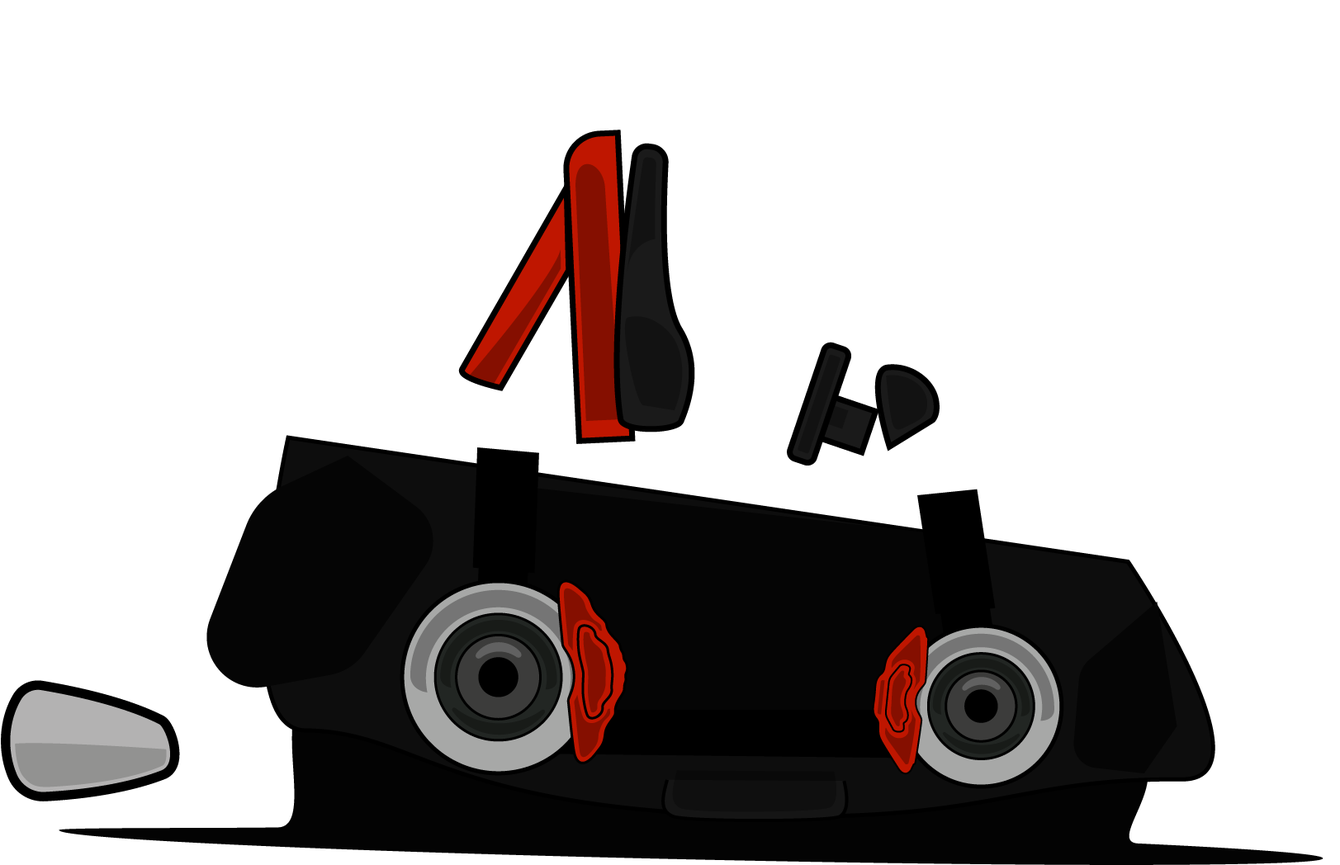
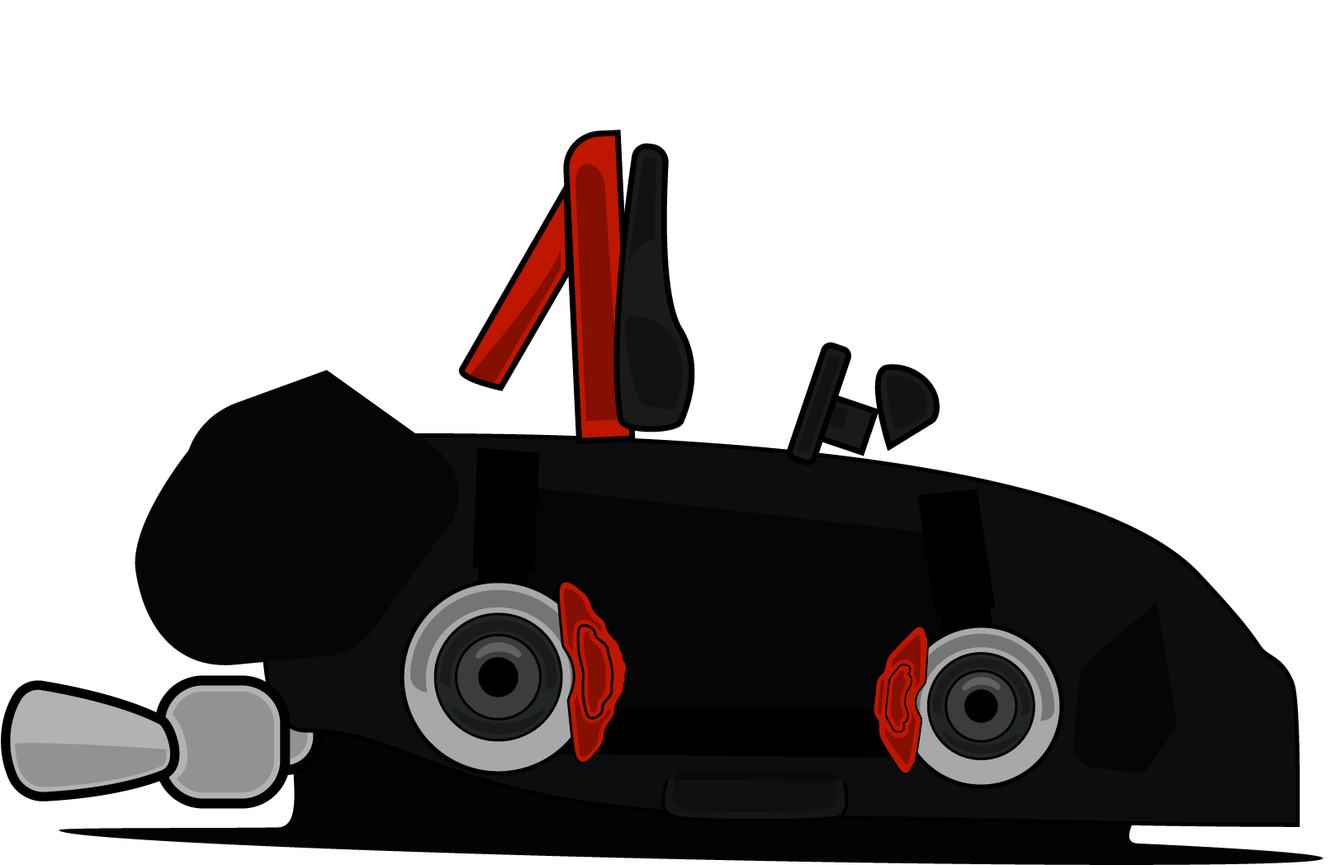
Cursors for different body parts done

Changed region(s): [[0.0924, 0.4275, 0.9858, 0.9771]]

diff --git a/src/app/page.tsx b/src/app/page.tsx
@@ -17,8 +17,8 @@ export default function Home() {
     if (event.target instanceof SVGPathElement) {
 
     const svgElement = (event.target as SVGPathElement).closest('svg');
-    const className = svgElement?.classList.contains('car-part-svg') ? 'car-part-svg' : '';
-    console.log(svgElement);
+    const className = svgElement ? Array.from(svgElement.classList).filter(cls => cls.startsWith('car-part')).join(' ') : '';    
+    console.log(className);
     handleBulletHoles(event);
     }
   };
@@ -39,19 +39,23 @@ export default function Home() {
     <main>
       <div className="body997" onClick={handleClick}>
         {/* Alerón*/}
-        <svg className="car-part-swap" style={{zIndex: '1'}} id="a" xmlns="http://www.w3.org/2000/svg" viewBox="0 0 1622.14 1047.4">
-          <g id="b"><path d="M196.38,589.69l13.72-24.39c6.27-11.15,3.7-33.55-7.45-64.79-9.36-26.26-22.24-51.9-28.43-64.22-.76-1.52-1.42-2.82-1.95-3.9-17.84-36.02-21.54-58.27-10.99-66.13,11.72-8.73,34.47,5.49,50.39,20.32,15.86,14.78,27.29,22.54,34.58,26.59-9.16-18.32-11.3-38.09-5.94-56.71,6.63-23.04,24.47-42.09,50.23-53.63,3.76-1.68,8.03-1.07,11.14,1.6,3.11,2.67,4.36,6.78,3.27,10.74-2.97,10.76-4.85,26.21,3.05,38.74,6.54,10.38,18.91,17.27,36.76,20.47,7.35,1.32,10.16,5.64,11.22,9.03,2.85,9.11-2.78,23.75-17.72,46.06-11.17,16.68-27.49,37.4-48.51,61.58-35.7,41.07-73.18,78.49-73.55,78.87l-19.82,19.76ZM170.19,371.3c-1.81,0-3.26.39-4.29,1.16-5.19,3.86-4.41,20.73,13.3,56.5.53,1.06,1.18,2.36,1.93,3.86,11.33,22.57,42.69,85.01,39.79,121.37,56.77-57.84,134.43-146.85,127.68-168.45-.43-1.38-1.41-3.05-5.21-3.73-20.08-3.6-34.19-11.66-41.93-23.96-9.4-14.92-7.34-32.66-3.96-44.92.42-1.52-.45-2.47-.85-2.81-.4-.34-1.49-1.07-2.94-.42-23.65,10.6-39.97,27.9-45.96,48.71-5.73,19.92-1.86,41.41,10.9,60.52l4.85,7.26-8.64-1.29c-1.61-.24-16.65-3.2-48.46-32.85-15.52-14.46-28.86-20.94-36.21-20.94Z" fill="#000" stroke="#000" stroke-miterlimit="10" stroke-width="8"/>
+        <svg id="a" className="car-part-swap" style={{zIndex: '2'}} xmlns="http://www.w3.org/2000/svg" viewBox="0 0 1622.14 1047.4">
+          <g id="b">
+            <path d="M196.38,589.69l13.72-24.39c6.27-11.15,3.7-33.55-7.45-64.79-9.36-26.26-22.24-51.9-28.43-64.22-.76-1.52-1.42-2.82-1.95-3.9-17.84-36.02-21.54-58.27-10.99-66.13,11.72-8.73,34.47,5.49,50.39,20.32,15.86,14.78,27.29,22.54,34.58,26.59-9.16-18.32-11.3-38.09-5.94-56.71,6.63-23.04,24.47-42.09,50.23-53.63,3.76-1.68,8.03-1.07,11.14,1.6,3.11,2.67,4.36,6.78,3.27,10.74-2.97,10.76-4.85,26.21,3.05,38.74,6.54,10.38,18.91,17.27,36.76,20.47,7.35,1.32,10.16,5.64,11.22,9.03,2.85,9.11-2.78,23.75-17.72,46.06-11.17,16.68-27.49,37.4-48.51,61.58-35.7,41.07-73.18,78.49-73.55,78.87l-19.82,19.76ZM170.19,371.3c-1.81,0-3.26.39-4.29,1.16-5.19,3.86-4.41,20.73,13.3,56.5.53,1.06,1.18,2.36,1.93,3.86,11.33,22.57,42.69,85.01,39.79,121.37,56.77-57.84,134.43-146.85,127.68-168.45-.43-1.38-1.41-3.05-5.21-3.73-20.08-3.6-34.19-11.66-41.93-23.96-9.4-14.92-7.34-32.66-3.96-44.92.42-1.52-.45-2.47-.85-2.81-.4-.34-1.49-1.07-2.94-.42-23.65,10.6-39.97,27.9-45.96,48.71-5.73,19.92-1.86,41.41,10.9,60.52l4.85,7.26-8.64-1.29c-1.61-.24-16.65-3.2-48.46-32.85-15.52-14.46-28.86-20.94-36.21-20.94Z" fill="#000" stroke="#000" stroke-miterlimit="10" stroke-width="8"/>
             <path d="M326.97,190.87c-1,0-2.09-.06-3.33-.18-13.77-1.31-85.26-8.25-140.45-15.8-12.43-1.7-24.01-6.98-33.47-15.27-21.03-18.42-58.93-54.37-76.44-88.18h0c-4.62-8.91-4.12-19.73,1.29-28.22,5.52-8.67,16.66-21.33,38.34-32.44,11.13-5.7,23.94-7.4,36.07-4.77,13.19,2.86,21.33,7.37,36.11,15.55,22.84,12.66,61.08,33.84,158.54,73.12,11.35,4.58,18.68,15.2,25.15,24.58,7.12,10.32,12.46,20.93,15.88,31.53,3.53,10.95-1.74,22.69-12.25,27.31-12.46,5.48-30.28,12.13-44.37,12.75-.35.02-.7.02-1.07.02ZM137.67,12.53c-7.32,0-14.62,1.74-21.23,5.13-20.14,10.32-30.33,21.86-35.34,29.72-3.94,6.18-4.3,14.04-.95,20.51h0c16.92,32.68,54.04,67.86,74.67,85.92,8.32,7.29,18.5,11.93,29.42,13.42,55.04,7.53,126.39,14.46,140.14,15.77,1.33.13,2.39.17,3.32.13,12.9-.56,29.74-6.89,41.6-12.1,6.87-3.02,10.31-10.69,8-17.86-3.18-9.88-8.19-19.81-14.88-29.51-6.13-8.89-12.48-18.09-21.68-21.8C242.85,62.38,204.35,41.06,181.35,28.32c-14.6-8.09-21.92-12.14-34-14.76-3.19-.69-6.44-1.03-9.68-1.03Z" fill="#000" stroke="#000" stroke-miterlimit="10" stroke-width="8"/>
           </g>
           <g id="c">
+            <path d="M214.98,567.19c17.28-30.72-28.59-118.07-37.73-136.52-39.09-78.9-.81-73.04,33.3-41.26,31.85,29.68,46.39,31.85,46.39,31.85-26.8-40.11-15.88-91.34,36.7-114.91,5.13-2.3,10.6,2.37,9.1,7.79-5.38,19.52-7.61,55,42.85,64.05,49.98,8.97-130.61,189-130.61,189Z" fill="#3d3638" stroke="#000" stroke-miterlimit="10"/>
             <path d="M213.47,567.19c17.28-30.72-28.59-118.07-37.73-136.52-39.09-78.9-.81-73.04,33.3-41.26,31.85,29.68,46.39,31.85,46.39,31.85-26.8-40.11-15.88-91.34,36.7-114.91,5.13-2.3,10.6,2.37,9.1,7.79-5.38,19.52-7.61,55,42.85,64.05,49.98,8.97-130.61,189-130.61,189Z" fill="#3d3638" stroke-width="0"/>
             <path d="M196.38,589.69l13.72-24.39c6.27-11.15,3.7-33.55-7.45-64.79-9.36-26.26-22.24-51.9-28.43-64.22-.76-1.52-1.42-2.82-1.95-3.9-17.84-36.02-21.54-58.27-10.99-66.13,11.72-8.73,34.47,5.49,50.39,20.32,15.86,14.78,27.29,22.54,34.58,26.59-9.16-18.32-11.3-38.09-5.94-56.71,6.63-23.04,24.47-42.09,50.23-53.63,3.76-1.68,8.03-1.07,11.14,1.6,3.11,2.67,4.36,6.78,3.27,10.74-2.97,10.76-4.85,26.21,3.05,38.74,6.54,10.38,18.91,17.27,36.76,20.47,7.35,1.32,10.16,5.64,11.22,9.03,2.85,9.11-2.78,23.75-17.72,46.06-11.17,16.68-27.49,37.4-48.51,61.58-35.7,41.07-73.18,78.49-73.55,78.87l-19.82,19.76ZM170.19,371.3c-1.81,0-3.26.39-4.29,1.16-5.19,3.86-4.41,20.73,13.3,56.5.53,1.06,1.18,2.36,1.93,3.86,11.33,22.57,42.69,85.01,39.79,121.37,56.77-57.84,134.43-146.85,127.68-168.45-.43-1.38-1.41-3.05-5.21-3.73-20.08-3.6-34.19-11.66-41.93-23.96-9.4-14.92-7.34-32.66-3.96-44.92.42-1.52-.45-2.47-.85-2.81-.4-.34-1.49-1.07-2.94-.42-23.65,10.6-39.97,27.9-45.96,48.71-5.73,19.92-1.86,41.41,10.9,60.52l4.85,7.26-8.64-1.29c-1.61-.24-16.65-3.2-48.46-32.85-15.52-14.46-28.86-20.94-36.21-20.94Z" fill="#000" stroke-width="0"/>
             <path d="M225.51,528.67c13.66-19.85,39.02-59.45,39.02-59.45-30.7-1.05-57.18-18.44-67.52-26.19-1.08-.81-2.5.4-1.88,1.61,25.81,50.54,30.38,84.03,30.38,84.03Z" fill="#000" opacity=".3" stroke-width="0"/>
             <path d="M288.85,319.63s-7.24,24,4.89,43.18c0,0-26.42,40.72-39.45,19.27,0,0-8.69-35.97,34.56-62.45Z" fill="#999" opacity=".4" stroke-width="0"/>
             <path d="M327.76,203.38c-7.2-29.98,25.21-37.27,9.4-39.82-93.04-14.96-142.7-35.15-163.85-45.72-6.04-3.02-13.19,1.14-13.53,7.89-2.58,52.64-6.71,202.43,8.41,244.13,17.07,47.05,55.32,79.63,91.46,126.86,5.99,7.66,96.69-125.34,99.34-136.89,7.84-34.13-6.17-52.11-31.24-156.46ZM220.37,154.76c12.76,1.68,52.93,15.55,75.58,17.52,11.71,1.02,17.3,12.07,11.32,24.68-3.31,6.98-22.86,12.72-34.15,9.84-15.98-4.08-54.02-15.3-82.77-28.15-12.93-5.78,13.46-26.07,30.02-23.89ZM255.78,398.1c-18.64-.94-34.46,1.01-42.53-.55-16.15-3.12-33.92-33.39-36.29-51.57-4.49-34.44-4.27-55.41-4.32-70.58-.17-49.22,28.82-67.43,40.68-49.37,24.4,37.15,50.59,92.73,62.18,115.36,10.36,20.23,8.67,58.15-19.72,56.7ZM302.42,371.55c-22.22-30.49-66.59-105.83-72.66-118.43-23.3-48.41.88-51.31,27.78-43.84,7.63,2.12,28.74,9.47,39.65,13.26,12.12,4.21,22.22,17.23,27.11,36.78,3.66,14.65,11.7,56.44,14.67,70.13,3.62,16.65-12.44,75.2-36.56,42.12Z" fill="#c7c7c7" stroke="#000" stroke-miterlimit="10" stroke-width="17"/>
+            <path d="M327.76,203.38c-7.2-29.98,25.21-37.27,9.4-39.82-93.04-14.96-142.7-35.15-163.85-45.72-6.04-3.02-13.19,1.14-13.53,7.89-2.58,52.64-6.71,202.43,8.41,244.13,17.07,47.05,55.32,79.63,91.46,126.86,5.99,7.66,96.69-125.34,99.34-136.89,7.84-34.13-6.17-52.11-31.24-156.46ZM224.2,171.03c12.76,1.68,39.24,5.09,61.89,7.05,11.71,1.02,13.85,4.49,7.87,17.1-3.31,6.98-7.48,6.37-18.77,3.49-15.98-4.08-29.03-9.1-57.79-21.95-12.93-5.78-9.76-7.87,6.79-5.7ZM255.78,381.53c-18.64-.94-34.46-1.2-42.53-2.76-16.15-3.12-20.66-14.61-23.03-32.79-4.49-34.44-5.38-55.41-5.43-70.58-.17-49.22,15.56-39.81,27.42-21.75,24.4,37.15,41.75,71.74,53.34,94.37,10.36,20.23,18.61,34.96-9.78,33.51ZM307.54,355.62c-22.22-30.49-45.43-72.32-51.5-84.93-23.3-48.41-17.93-51.03,8.97-43.57,7.63,2.12,15.15,4.18,26.06,7.97,12.12,4.21,16.74,10.04,21.63,29.58,3.66,14.65,13.89,52.42,16.87,66.1,3.62,16.65,2.08,57.93-22.03,24.84Z" fill="#000" stroke-width="0"/>
             <path d="M327.76,203.38c-7.2-29.98,25.21-37.27,9.4-39.82-93.04-14.96-142.7-35.15-163.85-45.72-6.04-3.02-13.19,1.14-13.53,7.89-2.58,52.64-6.71,202.43,8.41,244.13,17.07,47.05,55.32,79.63,91.46,126.86,5.99,7.66,96.69-125.34,99.34-136.89,7.84-34.13-6.17-52.11-31.24-156.46ZM224.2,171.03c12.76,1.68,39.24,5.09,61.89,7.05,11.71,1.02,13.85,4.49,7.87,17.1-3.31,6.98-7.48,6.37-18.77,3.49-15.98-4.08-29.03-9.1-57.79-21.95-12.93-5.78-9.76-7.87,6.79-5.7ZM255.78,381.53c-18.64-.94-34.46-1.2-42.53-2.76-16.15-3.12-20.66-14.61-23.03-32.79-4.49-34.44-5.38-55.41-5.43-70.58-.17-49.22,15.56-39.81,27.42-21.75,24.4,37.15,41.75,71.74,53.34,94.37,10.36,20.23,18.61,34.96-9.78,33.51ZM307.54,355.62c-22.22-30.49-45.43-72.32-51.5-84.93-23.3-48.41-17.93-51.03,8.97-43.57,7.63,2.12,15.15,4.18,26.06,7.97,12.12,4.21,16.74,10.04,21.63,29.58,3.66,14.65,13.89,52.42,16.87,66.1,3.62,16.65,2.08,57.93-22.03,24.84Z" fill="#c7c7c7" stroke="#000" stroke-miterlimit="10" stroke-width="7"/>
             <path d="M319.43,191.07c-.27-11.76,7.12-19.84,7.12-19.84-86.38-16.08-119.36-30.6-119.36-30.6,27.15,13.03,62.02,27.82,62.02,27.82,18.38,1.18,38.64,0,37.04,16.41l13.18,6.21Z" fill="#999" opacity=".4" stroke-width="0"/>
             <path d="M323.18,172.55c-59.72-8.73-133.52-35.05-149.1-40.76-1.48-.55-3.05.5-3.11,2.07l-2.01,54.49c107.04,19.91,154.78,45.51,155.35,46.04-19.53-51.85-1.13-61.84-1.13-61.84ZM301.53,198.77c-3.78,7.98-9.34,10.27-15.35,10.27-4.28,0-8.79-1.16-13.05-2.24-16.21-4.14-29.46-9.17-59.13-22.42-5.25-2.35-15.05-6.72-12.6-15.35,2.57-9.09,14.39-7.54,23.9-6.29,9.31,1.22,37.62,4.93,61.52,7.01,6.4.56,13.43,1.96,16.95,8.1,3.7,6.44,1.11,13.86-2.24,20.93Z" fill="#000" opacity=".3" stroke-width="0"/>
+            <path d="M77.76,67.73c17.26,33.34,54.98,69.03,75.55,87.05,8.86,7.76,19.78,12.75,31.45,14.35,55.35,7.57,127.64,14.58,140.29,15.79,1.28.12,2.57.2,3.86.14,13.57-.59,31.05-7.18,42.99-12.43,8.68-3.81,13.03-13.56,10.13-22.58-3.89-12.08-9.91-22.59-15.38-30.52-6.29-9.12-13.14-19.05-23.41-23.19C180.94,30.91,180.95,14.72,149.21,7.85c-11.34-2.45-23.17-.86-33.49,4.43-20.44,10.48-31.21,22.25-36.84,31.08-4.67,7.33-5.11,16.65-1.12,24.37Z" fill="#000" stroke-width="0"/>
             <path d="M76.72,69.66c17.26,33.34,54.98,69.03,75.55,87.05,8.86,7.76,19.78,12.75,31.45,14.35,55.35,7.57,127.64,14.58,140.29,15.79,1.28.12,2.57.2,3.86.14,13.57-.59,31.05-7.18,42.99-12.43,8.68-3.81,13.03-13.56,10.13-22.58-3.89-12.08-9.91-22.59-15.38-30.52-6.29-9.12-13.14-19.05-23.41-23.19C179.91,32.84,179.91,16.65,148.17,9.78c-11.34-2.45-23.17-.86-33.49,4.43-20.44,10.48-31.21,22.25-36.84,31.08-4.67,7.33-5.11,16.65-1.12,24.37Z" fill="#bf1600" stroke-width="0"/>
             <path d="M326.98,190.87c-1,0-2.09-.06-3.33-.18-13.77-1.31-85.26-8.25-140.45-15.8-12.43-1.7-24.01-6.98-33.47-15.27-21.03-18.42-58.93-54.37-76.44-88.18h0c-4.62-8.91-4.12-19.73,1.29-28.22,5.52-8.67,16.66-21.33,38.34-32.44,11.13-5.7,23.94-7.4,36.07-4.77,13.19,2.86,21.33,7.37,36.11,15.55,22.84,12.66,61.08,33.84,158.54,73.12,11.35,4.58,18.68,15.2,25.15,24.58,7.12,10.32,12.46,20.93,15.88,31.53,3.53,10.95-1.74,22.69-12.25,27.31-12.46,5.48-30.28,12.13-44.37,12.75-.35.02-.7.02-1.07.02ZM137.68,12.53c-7.32,0-14.62,1.74-21.23,5.13-20.14,10.32-30.33,21.86-35.34,29.72-3.94,6.18-4.3,14.04-.95,20.51h0c16.92,32.68,54.04,67.86,74.67,85.92,8.32,7.29,18.5,11.93,29.42,13.42,55.04,7.53,126.39,14.46,140.14,15.77,1.33.13,2.39.17,3.32.13,12.9-.56,29.74-6.89,41.6-12.1,6.87-3.02,10.31-10.69,8-17.86-3.18-9.88-8.19-19.81-14.88-29.51-6.13-8.89-12.48-18.09-21.68-21.8C242.85,62.39,204.36,41.06,181.36,28.32c-14.6-8.09-21.92-12.14-34-14.76-3.19-.69-6.44-1.03-9.68-1.03Z" fill="#000" stroke-width="0"/>
             <path d="M369.38,163.55s-9.95,7.27-35.48,11.67c-3.92.68-7.94.8-11.89.36l-136.51-17.28c-9.02-1.14-17.62-4.64-24.75-10.28-48.39-38.26-78.01-90.02-78.01-90.02,90.66,105.14,286.65,105.55,286.65,105.55Z" fill="#000" opacity=".3" stroke-width="0"/>
@@ -101,41 +105,29 @@ export default function Home() {
           </g>
         </svg>
         {/* Cristales */}
-        <svg id="a" className="car-part-swap" style={{zIndex: '50'}} xmlns="http://www.w3.org/2000/svg" viewBox="0 0 1622.14 1047.4">
+        <svg id="a" className="car-part-swap" style={{zIndex: '2'}} xmlns="http://www.w3.org/2000/svg" viewBox="0 0 1622.14 1047.4">
           <g id="b">
+            <path d="M991.84,161.72c-13.81-62.89-23.87-64.67-73.07-61-97.91,7.31-204.21,50.48-318.06,167.36-118.32,121.46-89.12,176.94,47.57,208.7,52.79,12.28,197.37,38.52,395.65,59.68,0,0-12.08-192.5-52.09-374.74ZM605.92,448.69c-86.36-34.01-62.75-93.46-10.14-152.01,33.28-37.04,53.74-59.08,107.49-98.26l22.25,277.2c-51.03-7.55-91.4-15.81-119.6-26.93ZM755.93,169.72c39.8-23.12,112.39-45.05,172.91-49.2,23.61-1.61,32.58-.11,40.18,26.08,3.46,11.94,31.71,141.84,51.8,366.33,0,0-106.01-8.79-237.47-29.59l-27.42-313.62Z" fill="#151515" stroke-width="0"/>
+            <path d="M725.06,476.07c-51.03-7.55-91.4-15.81-119.6-26.93-86.36-34.01-62.75-93.46-10.14-152.01,33.28-37.04,53.74-59.08,107.49-98.26l22.25,277.2Z" fill="#262625" opacity=".6" stroke-width="0"/>
+            <path d="M1020.82,512.93s-106.01-8.79-237.47-29.59l-27.42-313.62c39.8-23.12,112.39-45.05,172.91-49.2,23.61-1.61,32.58-.11,40.18,26.08,3.46,11.94,31.71,141.84,51.8,366.33Z" fill="#262625" opacity=".6" stroke-width="0"/>
+            <path d="M734.61,160.23c8.29,101.78,16.69,212.01,27.98,338.34" fill="#151515" stroke-width="0"/>
+            <path d="M755,499.25c-8.33-93.18-14.96-176.11-21.38-256.32-2.06-25.74-4.07-50.87-6.07-75.49l14.64-7.83c2.18,26.74,4.36,54.06,6.61,82.11,6.41,80.17,13.04,163.06,21.36,256.17l-15.17,1.36Z" fill="#000" stroke-width="0"/>
+            <rect x="906.71" y="114.19" width="57.81" height="7" rx="3.5" ry="3.5" transform="translate(1875.77 190.92) rotate(177.28)" fill="#999" stroke-width="0"/>
+            <rect x="933.05" y="125.9" width="37.47" height="7" rx="3.5" ry="3.5" transform="translate(1908.64 213.56) rotate(177.28)" fill="#999" stroke-width="0"/>
+            <rect x="955.19" y="137.62" width="18.57" height="7" rx="3.5" ry="3.5" transform="translate(1934.56 236.39) rotate(177.28)" fill="#999" stroke-width="0"/>
+            <rect x="778.29" y="486.9" width="59.91" height="7.25" rx="3.63" ry="3.63" transform="translate(71.52 -102.02) rotate(7.56)" fill="#999" stroke-width="0"/>
+            <rect x="709.93" y="474.27" width="19.76" height="7.45" rx="3.72" ry="3.72" transform="translate(69.1 -90.5) rotate(7.56)" fill="#999" stroke-width="0"/>
+            <rect x="777.4" y="470.95" width="29.96" height="7.25" rx="3.63" ry="3.63" transform="translate(69.28 -100.07) rotate(7.56)" fill="#999" stroke-width="0"/>
+            <rect x="722.52" y="461.96" width="11.43" height="7.45" rx="3.72" ry="3.72" transform="translate(67.55 -91.71) rotate(7.56)" fill="#999" stroke-width="0"/>
+            <path d="M1133.83,468.27v.02c-.87,4.22-1.95,7.78-3.34,10.92-.52,1.19-1.08,2.3-1.69,3.35-4.65,8.13-12,13.01-24.05,18.69-13.54,6.38-20.85,4.63-24.6-33.04-7.57-76.22-17.69-148.51-48.16-330.77-5.7-34.07,1.71-29.88,9.19-35.37.64-.49,1.49-.46,2.17-.87,1.55-.94,3.15-1.74,4.78-2.42,2.16,6.75,4.34,13.91,6.55,21.42,22.1,75.38,46.29,186.16,62.85,266.6,7.08,34.44,12.76,63.32,16.3,81.47Z" fill="#262625" opacity=".6" stroke-width="0"/>
+            <path d="M1138.87,492.8c-.15.47-.32.93-.5,1.39-.02.03-.03.06-.03.08-.15.35-.29.7-.46,1.05-.46,1.01-.96,1.98-1.54,2.92-.02.03-.03.05-.05.08-.23.37-.46.73-.7,1.08-.26.38-.52.75-.79,1.13-8.7,11.73-26.34,18.52-39.86,24.51-14.7,6.5-22.36,5.01-26.37-35.81-8.12-82.59-17.17-161.24-51.63-358.44-5.09-29.12,7.65-38.4,19.62-42.8.75-.27,1.48-.52,2.21-.76.52-.17,1.02-.32,1.52-.47.61-.18,1.2-.35,1.8-.52s1.17-.34,1.74-.49c.41,1.17.82,2.38,1.23,3.61.4,1.17.79,2.36,1.17,3.56.37,1.07.72,2.15,1.05,3.24.29.87.56,1.75.85,2.64-1.63.69-6.06,3.41-6.78,3.76-11.53,5.64-12.82,15.34-9.37,34.9,32.15,181.97,40.59,254.55,48.16,330.77,3.75,37.67,11.06,39.42,24.6,33.04,12.05-5.68,19.4-10.56,24.05-18.69.61-1.05,1.17-2.16,1.69-3.35,1.39-3.14,2.47-6.7,3.34-10.92.41,2.1.78,4.05,1.13,5.85.06.27.11.55.17.82.09.49.18.96.27,1.43.4,2.07.75,3.9,1.05,5.48.05.23.08.46.12.67.73,3.88,1.14,6.08,1.19,6.32.26,1.51.62,2.82,1.11,3.93Z" fill="#151515" stroke-width="0"/>
+            <path d="M1012.48,474.64c8.66-38.58,19.78-27.79,22.23-3.58,1.91,18.92,5.64,46.26,7.18,57.32.37,2.62,2.09,6.15-.67,6.09-18.32-.37-42.08-4.82-42.08-4.82-13.97-1.73,4.1-13.86,13.33-55.01Z" fill="#050505" stroke="#000" stroke-miterlimit="10" stroke-width="5"/>
+          </g>
           <g id="c">
-              <path d="M769.34,166.58l-5.98-1.89c5.41-2.83,11.26-5.61,17.48-8.33v13.23l-8.67-6.82-2.84,3.81Z" fill="#262625" opacity=".6" stroke="#000" stroke-miterlimit="10" stroke-width="3"/>
-              <path d="M796.06,169.24l-10.89-14.76c5.75-2.48,8.95-3.67,15.25-6l-4.36,20.77Z" fill="#262625" opacity=".6" stroke="#000" stroke-miterlimit="10" stroke-width="3"/>
-              <polygon points="791.63 306.89 768.35 321.11 759.22 216.84 789.34 194.9 778.66 230.59 818.65 214.63 788.38 251.67 811.35 256.57 818.65 278.7 788.38 289.46 791.63 306.89" fill="#262625" opacity=".6" stroke="#000" stroke-miterlimit="10" stroke-width="3"/>
-              <path d="M826.87,146.59l-16.41-1.69c9.7-3.38,12.34-4.7,22.59-7.34l-6.18,9.03Z" fill="#262625" opacity=".6" stroke="#000" stroke-miterlimit="10" stroke-width="3"/>
-              <path d="M856.4,494.76s-25.21-3.18-73.82-10.88l-7.92-90.57,30.55,16.67,13.45,34.84-4.4,12.79,29.77-11.22,12.38,48.37Z" fill="#262625" opacity=".6" stroke="#000" stroke-miterlimit="10" stroke-width="3"/>
-              <path d="M876.71,159.09l-35.65-23.66c28.79-7.9,59.43-13.63,87.49-15.56,23.69-1.62,32.69-.11,40.31,26.16.61,2.11,2,7.92,3.97,17.27l-11.57,19.36-4.52-32.69-11.03,13.8.72-17.19-40.13,7.64-29.58-7.64v12.5Z" fill="#262625" opacity=".6" stroke="#000" stroke-miterlimit="10" stroke-width="3"/>
-              <path d="M978.11,189.82s8.73,44.7,18.38,112.04l-16.52-12.41,4.65-17.47-27.89-22.51h23.78l-23.78-33.41,21.38-26.25Z" fill="#262625" opacity=".6" stroke="#000" stroke-miterlimit="10" stroke-width="3"/>
-              <path d="M1020.82,513.58s-42.22-3.5-106.45-11.31l3.81-71.23,43.08,29.78v-14.43l18.72,17.7,30.44-53.32c3.59,31.65,7.11,65.95,10.41,102.8Z" fill="#262625" opacity=".6" stroke="#000" stroke-miterlimit="10" stroke-width="3"/>
-              <path d="M632.42,408.71l3.39,50.4h-.03c-11.66-3.09-22.07-6.39-31.22-9.99-33.16-13.05-50.15-29.86-55.55-48.92l26.3-10.94,25.99-.7,7.14,34.03,23.98-13.88Z" fill="#262625" opacity=".6" stroke="#000" stroke-miterlimit="10" stroke-width="3"/>
-              <path d="M671.34,221.55l-2.22,31.57h-11.75l-6.34,36.31-14.15-24.69-4.46,23.96-31.11,17.02.63,17.62-22.94-8.45v-.02c4.75-6.08,9.92-12.18,15.39-18.26,26.13-29.1,44.39-48.96,76.96-75.06Z" fill="#262625" opacity=".6" stroke="#000" stroke-miterlimit="10" stroke-width="3"/>
-              <polygon points="695.73 354.1 706.58 333 695.73 321.11 709.51 288.91 709.54 289.17 714.08 345.8 695.73 354.1" fill="#262625" opacity=".6" stroke="#000" stroke-miterlimit="10" stroke-width="3"/>
-              <path d="M724.55,476.14c-8.8-1.3-17.3-2.63-25.46-3.99l-3.36-25.75,12.48-9.54v-35.22l11.4,13.07v.03l4.94,61.4Z" fill="#262625" opacity=".6" stroke="#000" stroke-miterlimit="10" stroke-width="3"/>
-          </g>
-              <path d="M991.84,161.72c-13.81-62.89-23.87-64.67-73.07-61-97.91,7.31-204.21,50.48-318.06,167.36-118.32,121.46-89.12,176.94,47.57,208.7,52.79,12.28,197.37,38.52,395.65,59.68,0,0-12.08-192.5-52.09-374.74ZM605.92,448.69c-86.36-34.01-62.75-93.46-10.14-152.01,33.28-37.04,53.74-59.08,107.49-98.26l22.25,277.2c-51.03-7.55-91.4-15.81-119.6-26.93ZM755.93,169.72c39.8-23.12,112.39-45.05,172.91-49.2,23.61-1.61,32.58-.11,40.18,26.08,3.46,11.94,31.71,141.84,51.8,366.33,0,0-106.01-8.79-237.47-29.59l-27.42-313.62Z" fill="#151515" stroke-width="0"/>
-              <path d="M734.61,160.23c8.29,101.78,16.69,212.01,27.98,338.34" fill="#151515" stroke-width="0"/>
-              <path d="M755,499.25c-8.33-93.18-14.96-176.11-21.38-256.32-2.06-25.74-4.07-50.87-6.07-75.49l14.64-7.83c2.18,26.74,4.36,54.06,6.61,82.11,6.41,80.17,13.04,163.06,21.36,256.17l-15.17,1.36Z" fill="#000" stroke-width="0"/>
-              <rect x="906.71" y="114.19" width="57.81" height="7" rx="3.5" ry="3.5" transform="translate(1875.77 190.92) rotate(177.28)" fill="#999" stroke-width="0"/>
-              <rect x="933.05" y="125.9" width="37.47" height="7" rx="3.5" ry="3.5" transform="translate(1908.64 213.56) rotate(177.28)" fill="#999" stroke-width="0"/>
-              <rect x="955.19" y="137.62" width="18.57" height="7" rx="3.5" ry="3.5" transform="translate(1934.56 236.39) rotate(177.28)" fill="#999" stroke-width="0"/>
-              <rect x="778.29" y="486.9" width="59.91" height="7.25" rx="3.63" ry="3.63" transform="translate(71.52 -102.02) rotate(7.56)" fill="#999" stroke-width="0"/>
-              <rect x="709.93" y="474.27" width="19.76" height="7.45" rx="3.72" ry="3.72" transform="translate(69.1 -90.5) rotate(7.56)" fill="#999" stroke-width="0"/>
-              <rect x="777.4" y="470.95" width="29.96" height="7.25" rx="3.63" ry="3.63" transform="translate(69.28 -100.07) rotate(7.56)" fill="#999" stroke-width="0"/>
-              <rect x="722.52" y="461.96" width="11.43" height="7.45" rx="3.72" ry="3.72" transform="translate(67.55 -91.71) rotate(7.56)" fill="#999" stroke-width="0"/>
-              <path d="M1133.83,468.27v.02c-.87,4.22-1.95,7.78-3.34,10.92-.52,1.19-1.08,2.3-1.69,3.35-4.65,8.13-12,13.01-24.05,18.69-13.54,6.38-20.85,4.63-24.6-33.04-7.57-76.22-17.69-148.51-48.16-330.77-5.7-34.07,1.71-29.88,9.19-35.37.64-.49,1.49-.46,2.17-.87,1.55-.94,3.15-1.74,4.78-2.42,2.16,6.75,4.34,13.91,6.55,21.42,22.1,75.38,46.29,186.16,62.85,266.6,7.08,34.44,12.76,63.32,16.3,81.47Z" fill="#262625" opacity=".6" stroke-width="0"/>
-              <path d="M1138.87,492.8c-.15.47-.32.93-.5,1.39-.02.03-.03.06-.03.08-.15.35-.29.7-.46,1.05-.46,1.01-.96,1.98-1.54,2.92-.02.03-.03.05-.05.08-.23.37-.46.73-.7,1.08-.26.38-.52.75-.79,1.13-8.7,11.73-26.34,18.52-39.86,24.51-14.7,6.5-22.36,5.01-26.37-35.81-8.12-82.59-17.17-161.24-51.63-358.44-5.09-29.12,7.65-38.4,19.62-42.8.75-.27,1.48-.52,2.21-.76.52-.17,1.02-.32,1.52-.47.61-.18,1.2-.35,1.8-.52s1.17-.34,1.74-.49c.41,1.17.82,2.38,1.23,3.61.4,1.17.79,2.36,1.17,3.56.37,1.07.72,2.15,1.05,3.24.29.87.56,1.75.85,2.64-1.63.69-6.06,3.41-6.78,3.76-11.53,5.64-12.82,15.34-9.37,34.9,32.15,181.97,40.59,254.55,48.16,330.77,3.75,37.67,11.06,39.42,24.6,33.04,12.05-5.68,19.4-10.56,24.05-18.69.61-1.05,1.17-2.16,1.69-3.35,1.39-3.14,2.47-6.7,3.34-10.92.41,2.1.78,4.05,1.13,5.85.06.27.11.55.17.82.09.49.18.96.27,1.43.4,2.07.75,3.9,1.05,5.48.05.23.08.46.12.67.73,3.88,1.14,6.08,1.19,6.32.26,1.51.62,2.82,1.11,3.93Z" fill="#151515" stroke-width="0"/>
-              <path d="M1012.48,474.64c8.66-38.58,19.78-27.79,22.23-3.58,1.91,18.92,5.64,46.26,7.18,57.32.37,2.62,2.09,6.15-.67,6.09-18.32-.37-42.08-4.82-42.08-4.82-13.97-1.73,4.1-13.86,13.33-55.01Z" fill="#050505" stroke="#000" stroke-miterlimit="10" stroke-width="5"/>
-          </g>
-          <g id="d">
-              <path d="M1014.2,475.55c15.56,9.05,13.75,36.92,5.43,42.71-8.32,5.79-38.37,2.53-52.48,0-14.12-2.53-60.08-2-45.97-76.73,13.42-71.07,53.67-73.15,67.32-40.17,19.18,46.33,16.46,68.82,25.7,74.2Z" fill="#bf1600" stroke="#000" stroke-miterlimit="10" stroke-width="7"/>
-              <path d="M1012.51,503.55c-.87,4.01-4.63,6.88-8.99,6.88h-.09c-1.33-.02-2.83-.06-4.46-.11-4.2-.13-9.23-.3-14.1.11-2.04.17-3.87-1.22-4.18-3.24l-.03-.21c-.05-.35.19-.68.54-.73,3.71-.53,7.55-.56,11.18-.65,8.96-.22,7.94-20.69,3.48-25.58-4.39-4.8-8.75-13.63-9.92-15.92-.16-.31-.03-.7.29-.85h0c1.94-.96,4.29-.21,5.31,1.7,1.68,3.13,4.3,7.71,6.66,10.71.43.55.88,1.1,1.34,1.63,2.53,2.91,5.67,5.35,9.08,7.59,7.17,4.7,3.9,18.67,3.9,18.67Z" fill="#000" stroke-width="0"/>
-              <path d="M977.9,508.53s-1.41-2.67,1.78-4.16c2.06-.96,7.38-.78,11.72-1.22s5.88-18.64.63-20.99c-12.03-5.39-60.53-61.53-64.33-22.44,0,0-3.8,39.54,23.78,45.38,19.34,4.1,26.42,3.44,26.42,3.44Z" fill="#000" opacity=".3" stroke-width="0"/>
-              <path d="M996.95,455.46s-6.55-31.13-14.46-49.55c-15.06-35.08-39.12-5.58-40.95.33,0,0,32.85-21.35,55.41,49.22Z" fill="#f2f2f2" opacity=".4" stroke-width="0"/>
+            <path d="M1014.2,475.55c15.56,9.05,13.75,36.92,5.43,42.71-8.32,5.79-38.37,2.53-52.48,0-14.12-2.53-60.08-2-45.97-76.73,13.42-71.07,53.67-73.15,67.32-40.17,19.18,46.33,16.46,68.82,25.7,74.2Z" fill="#bf1600" stroke="#000" stroke-miterlimit="10" stroke-width="7"/>
+            <path d="M1012.51,503.55c-.87,4.01-4.63,6.88-8.99,6.88h-.09c-1.33-.02-2.83-.06-4.46-.11-4.2-.13-9.23-.3-14.1.11-2.04.17-3.87-1.22-4.18-3.24l-.03-.21c-.05-.35.19-.68.54-.73,3.71-.53,7.55-.56,11.18-.65,8.96-.22,7.94-20.69,3.48-25.58-4.39-4.8-8.75-13.63-9.92-15.92-.16-.31-.03-.7.29-.85h0c1.94-.96,4.29-.21,5.31,1.7,1.68,3.13,4.3,7.71,6.66,10.71.43.55.88,1.1,1.34,1.63,2.53,2.91,5.67,5.35,9.08,7.59,7.17,4.7,3.9,18.67,3.9,18.67Z" fill="#000" stroke-width="0"/>
+            <path d="M977.9,508.53s-1.41-2.67,1.78-4.16c2.06-.96,7.38-.78,11.72-1.22s5.88-18.64.63-20.99c-12.03-5.39-60.53-61.53-64.33-22.44,0,0-3.8,39.54,23.78,45.38,19.34,4.1,26.42,3.44,26.42,3.44Z" fill="#000" opacity=".3" stroke-width="0"/>
+            <path d="M996.95,455.46s-6.55-31.13-14.46-49.55c-15.06-35.08-39.12-5.58-40.95.33,0,0,32.85-21.35,55.41,49.22Z" fill="#f2f2f2" opacity=".4" stroke-width="0"/>
           </g>
         </svg>
         {/* Ruedas */}
@@ -307,9 +299,7 @@ export default function Home() {
             <path d="M1001.7,973.89c1.4-.02,2.55,1.06,2.65,2.46.39,5.25-.48,16.93-16.06,16.93-111.02,0-140.07-15-157.98-21.81,0,0,145.45,2.71,171.39,2.41Z" fill="#fff" opacity=".12" stroke-width="0"/>
             <path d="M788.59,1002.73c-.92,4.59-1.67,7.98-2.13,9.96-.25,1.1.52,2.15,1.64,2.24,5.11.41,18.8.58,33.07-.28,19.53-1.17,26.61-6.89,91.21-8.23,59.19-1.23,113.1.61,117.45.81,4.88.23,5.43-3.98,5.43-3.98-4.41,0-246.66-.53-246.66-.53Z" fill="#000" opacity=".4" stroke-width="0"/>
           </g>
-        </svg>
-        {/* Retrovisor */}
-        
+        </svg>      
         {/* Chasis */}
         <img className="car-part" src="/images/car-parts/Chasis.png" style={{zIndex: '1'}}/>
         {/* Borde carroceria */}

diff --git a/styles/globals.css b/styles/globals.css
@@ -33,8 +33,18 @@ img{
   width: 100vh;
 }
 
+.car-part-swap:hover{
+  opacity: 0.85;
+  
+}
+
 .car-part-delete{
   width: 100vh;
+}
+
+.car-part-delete:hover{
+  cursor:grabbing;
+  opacity: 0.8;
 }
 
 .bullet-hole{
@@ -43,6 +53,17 @@ img{
 
 svg.car-part-svg path{
   cursor: crosshair;
+}
+
+svg.car-part-swap path,
+svg.car-part-swap circle,
+svg.car-part-swap ellipse,
+svg.car-part-swap rect,
+svg.car-part-swap line,
+svg.car-part-swap polyline,
+svg.car-part-swap polygon,
+svg.car-part-swap text {
+  cursor: grabbing;
 }
 
 svg {
